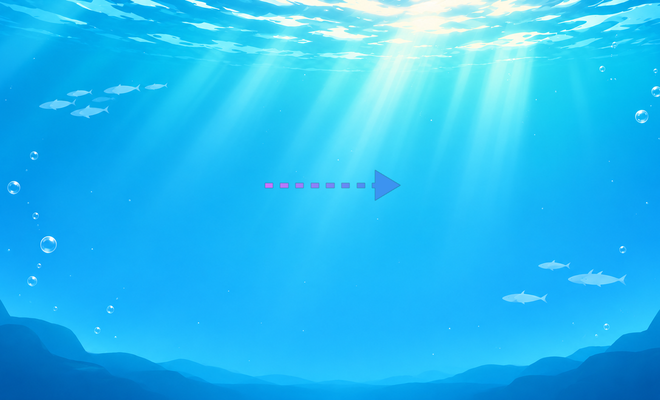
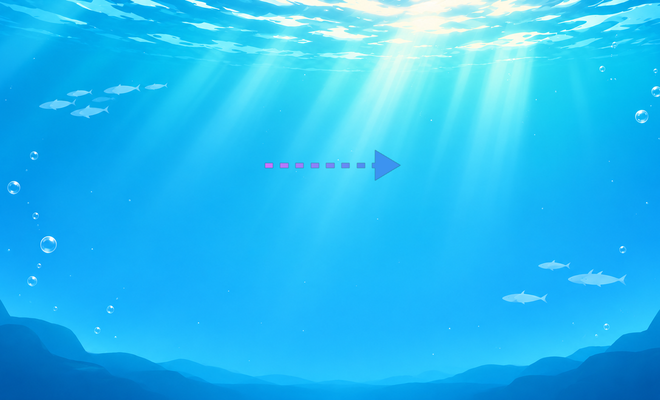
fix(macos): DMG 아이콘을 보이는 칸 가운데로 올리기
제목 막대와 (켜 두었을 때의) Finder 경로 막대가 창 아래를 가려 그림은 위쪽 340~370pt만 보인다.
아이콘·이름 묶음이 185pt에서는 아래로 쳐져 보여 165pt로 올리고, 배경 화살표도 같은 높이로 옮긴다.

Claude-Session: https://claude.ai/code/session_014P4W8oenruHd6nSWSa6bEY

Changed region(s): [[0.3939, 0.36, 0.6061, 0.51]]

diff --git a/.github/scripts/package-macos.py b/.github/scripts/package-macos.py
@@ -103,7 +103,9 @@ def dmg_settings(app: Path) -> dict:
         "show_pathbar": False, "show_icon_preview": False,
         "icon_size": DMG_ICON_SIZE,
         "text_size": 12,
-        "icon_locations": {app.name: (150, 185), "Applications": (510, 185)},
+        # 창 높이(400)에서 제목 막대를 빼고, 사용자가 Finder 경로 막대를 켜 두면 그것까지 가려 그림은 위쪽
+        # 340~370pt만 보인다. 아이콘과 이름 묶음이 두 경우 모두 보이는 칸 가운데쯤 오는 높이다 (배경 화살표도 같은 높이)
+        "icon_locations": {app.name: (150, 165), "Applications": (510, 165)},
     }
 
 
